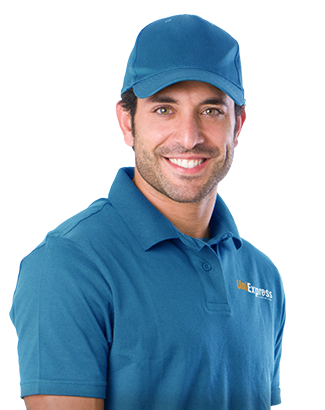
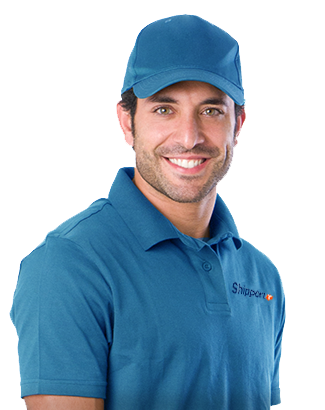
delete uniexpress.png

diff --git a/index.html b/index.html
@@ -70,7 +70,7 @@ data-callback="callBackDo">
   </div>
 
 
-<div id='priv_data'>Нажимая кнопку "Заказать звонок", я принимаю  <A HREF="https://uniexpress.ru/privatedata.html" TARGET="_blank">Правила обработки персональных данных</A>, и даю согласие на обработку моих персональных данных.</div> 
+<div id='priv_data'>Нажимая кнопку "Заказать звонок", я принимаю  <A HREF="https://shipperty.ru/privatedata.html" TARGET="_blank">Правила обработки персональных данных</A>, и даю согласие на обработку моих персональных данных.</div>
 
 </div>
 <div id='modales-back'></div>
@@ -90,7 +90,7 @@ data-callback="callBackDo">
      <div class='top-fixed-language'> <!-- <div id='language-changer'>En</div> --></div>
       <div class='top-fixed-separator'></div>
       <div class='top-fixed-services'><a href='services.html' rel='nofollow'><div id='services-tarif' title='Услуги курьерской доставки и тарифа на услуги курьерской доставки'>Услуги и тарифы</div></a></div>
-      <div class='top-fixed-services'><a href='https://p.uniexpress.ru' target="_blank" rel='nofollow'><div id='private-cabinet'  title='Вход для клиентов службы доставки Shipperty'>Личный кабинет</div></a></div>
+      <div class='top-fixed-services'><a href='https://p.shipperty.ru' target="_blank" rel='nofollow'><div id='private-cabinet'  title='Вход для клиентов службы доставки Shipperty'>Личный кабинет</div></a></div>
       <div class='top-fixed-callback'><div id='call-back-button' title='Обратный звонок от службы курьерской доставки Shipperty' onClick="callBackClick();">ЗАКАЗАТЬ ЗВОНОК</div></div>
       
       
@@ -103,12 +103,12 @@ data-callback="callBackDo">
        <a href='partners.html'><div id='partners-point' class='point-ham-menu' title='Услуги курьерской доставки и тарифа на услуги курьерской доставки'>Партнеры</div></a>
        <a href='contacts.html'><div id='loc-point' class='point-ham-menu' title='Услуги курьерской доставки и тарифа на услуги курьерской доставки'>Контакты</div></a>
        </div>
-      <a href='https://p.uniexpress.ru' target="_blank" rel='nofollow' title="Вход в личный кабинет Shipperty"><div class='top-fixed-pcicon-mobile'></div></a>
+      <a href='https://p.shipperty.ru' target="_blank" rel='nofollow' title="Вход в личный кабинет Shipperty"><div class='top-fixed-pcicon-mobile'></div></a>
        
       
       <div class='top-fixed-phones-tablet'>
         <div class='top-fixed-menu-phone2'><div class='top-fixed-menu-phone1-comment'>Для жителей Москвы</div><div class='top-fixed-menu-phone1-phone'>8 (495) 258-62-01</div></div>
-        <a href='https://p.uniexpress.ru' target="_blank" rel='nofollow'><div class='top-fixed-pcicon-tablet'></div></a>
+        <a href='https://p.shipperty.ru' target="_blank" rel='nofollow'><div class='top-fixed-pcicon-tablet'></div></a>
         <div class='top-fixed-menu-tablet' onClick='hMenuClickTablet();'></div>
         <div class='top-fixed-menu-tablet-content' id="top_menu_tablet">
         <a href='services.html'><div id='services-tarif' class='point-ham-menu' title='Услуги курьерской доставки и тарифа на услуги курьерской доставки'>Услуги и тарифы</div></a>

diff --git a/includes/call_courier.html b/includes/call_courier.html
@@ -142,7 +142,7 @@ if($f['_fld5821']=='t') {
 	   
 		   
 		   <div class='calc-form-td'><br> <br></div>
-		  <div id='priv_data2'>Нажимая кнопку "Вызвать курьера", я принимаю  <A HREF="https://uniexpress.ru/privatedata.html" TARGET="_blank">Правила обработки персональных данных</A>, и даю согласие на обработку моих персональных данных.</div>  
+		  <div id='priv_data2'>Нажимая кнопку "Вызвать курьера", я принимаю  <A HREF="https://shipperty.ru/privatedata.html" TARGET="_blank">Правила обработки персональных данных</A>, и даю согласие на обработку моих персональных данных.</div>
 		<div class='calc-form-result-button'>
 		<div class='call-courier-alert'>Внимание! Не все обязательные поля заполнены (отмечены красным)!</div>
 <div id='call_courier_button' class='usual-button-center' title='Расчет стоимости курьерской доставки' onClick="callCourierCheck();">ВЫЗВАТЬ КУРЬЕРА</div><br /><br /><br />

diff --git a/index-test.html b/index-test.html
@@ -68,7 +68,7 @@
   </div>
 
 
-<div id='priv_data'>Нажимая кнопку "Заказать звонок", я принимаю  <A HREF="https://uniexpress.ru/privatedata.html" TARGET="_blank">Правила обработки персональных данных</A>, и даю согласие на обработку моих персональных данных.</div> 
+<div id='priv_data'>Нажимая кнопку "Заказать звонок", я принимаю  <A HREF="https://shipperty.ru/privatedata.html" TARGET="_blank">Правила обработки персональных данных</A>, и даю согласие на обработку моих персональных данных.</div>
 
 </div>
 <div id='modales-back'></div>

diff --git a/fixedone/index.html b/fixedone/index.html
@@ -1,3 +1,3 @@
 <?php 
-header('Location: http://uniexpress.ru/fixedone.html');
+header('Location: http://shipperty.ru/fixedone.html');
 ?>

diff --git a/includes/top.php b/includes/top.php
@@ -13,7 +13,7 @@
       <div class='top-fixed-language'><!-- <div id='language-changer'>En</div> --></div>
       <div class='top-fixed-separator'></div>
       <div class='top-fixed-services'><a href='services.html' rel='nofollow'><div id='services-tarif' title='Услуги курьерской доставки и тарифа на услуги курьерской доставки'>Услуги и тарифы</div></a></div>
-      <div class='top-fixed-services'><a href='https://p.uniexpress.ru' target="_blank" rel='nofollow'><div id='private-cabinet' title='Вход для клиентов службы доставки Shipperty'>Личный кабинет</div></a></div>
+      <div class='top-fixed-services'><a href='https://p.shipperty.ru' target="_blank" rel='nofollow'><div id='private-cabinet' title='Вход для клиентов службы доставки Shipperty'>Личный кабинет</div></a></div>
       <div class='top-fixed-callback'><div id='call-back-button' title='Обратный звонок от службы курьерской доставки Shipperty' onClick="callBackClick();">ЗАКАЗАТЬ ЗВОНОК</div></div>
       
             <div class='top-fixed-menu-mobile' onClick='hMenuClickMobile();'></div>
@@ -24,12 +24,12 @@
        <a href='partners.html'><div id='partners-point' class='point-ham-menu' title='Услуги курьерской доставки и тарифа на услуги курьерской доставки'>Партнеры</div></a>
        <a href='contacts.html'><div id='loc-point' class='point-ham-menu' title='Услуги курьерской доставки и тарифа на услуги курьерской доставки'>Контакты</div></a>
        </div>
-      <a href='https://p.uniexpress.ru' target="_blank" rel='nofollow' title="Вход в личный кабинет Shipperty"><div class='top-fixed-pcicon-mobile'></div></a>
+      <a href='https://p.shipperty.ru' target="_blank" rel='nofollow' title="Вход в личный кабинет Shipperty"><div class='top-fixed-pcicon-mobile'></div></a>
        
       
       <div class='top-fixed-phones-tablet'>
         <div class='top-fixed-menu-phone2'><div class='top-fixed-menu-phone1-comment'>Для жителей Москвы</div><div class='top-fixed-menu-phone1-phone'>8 (495) 258-62-01</div></div>
-        <a href='http://p.uniexpress.ru' target="_blank" rel='nofollow'><div class='top-fixed-pcicon-tablet'></div></a>
+        <a href='http://p.shipperty.ru' target="_blank" rel='nofollow'><div class='top-fixed-pcicon-tablet'></div></a>
         <div class='top-fixed-menu-tablet' onClick='hMenuClickTablet();'></div>
         <div class='top-fixed-menu-tablet-content' id="top_menu_tablet">
         <a href='services.html'><div id='services-tarif' class='point-ham-menu' title='Услуги курьерской доставки и тарифа на услуги курьерской доставки'>Услуги и тарифы</div></a>

diff --git a/includes/services-delivery.php b/includes/services-delivery.php
@@ -152,7 +152,7 @@ for($i3=0; $i3<$rows3; $i3++)
 
 
 
-<p><a href="https://uniexpress.ru/tariff-spb.html">Ознакомиться с тарифами на доставку по Санкт-Петербургу</a> или рассчитать стоимость через <a href="https://uniexpress.ru/calc.html">калькулятор</a>.</p>
+<p><a href="https://shipperty.ru/tariff-spb.html">Ознакомиться с тарифами на доставку по Санкт-Петербургу</a> или рассчитать стоимость через <a href="https://shipperty.ru/calc.html">калькулятор</a>.</p>
 
 <p width="100%">
 <a href='contract.html' class='mainlink'>
@@ -170,7 +170,7 @@ for($i3=0; $i3<$rows3; $i3++)
     <li>Самовывоз. Работает несколько пунктов выдачи в Москве и Санкт-Петербурге.</li>
     <li>Отправка заказов по почте в ЛЮБОЙ город России.</li>
     </ul>
-    <p>Узнать все условия сотрудничества и ответы на дополнительные вопросы вы можете по телефону: +7 495 258-62-01 или по электронной почте: <a href="mailto:sales@uniexpress.ru"> sales@uniexpress.ru</a>.<br />Вы также можете связаться с нашим менеджером по работе с клиентами по персональному телефону: +7 (966) 12-14-966 (Александр). </p>
+    <p>Узнать все условия сотрудничества и ответы на дополнительные вопросы вы можете по телефону: +7 495 258-62-01 или по электронной почте: <a href="mailto:sales@shipperty.ru"> sales@shipperty.ru</a>.<br />Вы также можете связаться с нашим менеджером по работе с клиентами по персональному телефону: +7 (966) 12-14-966 (Александр). </p>
     <p>Будем рады видеть вас в числе наших постоянных клиентов и приложим все усилия, чтобы работать с нами вам было не только выгодно, но удобно и приятно. Надеемся на долговременное сотрудничество. </p>
     
     

diff --git a/includes/fixedone.php b/includes/fixedone.php
@@ -115,7 +115,7 @@
 	   
 		   
 		   <div class='calc-form-td'><br> <br></div>
-		  <div id='priv_data2'>Нажимая кнопку "Вызвать курьера", я принимаю  <A HREF="https://uniexpress.ru/privatedata.html" TARGET="_blank">Правила обработки персональных данных</A>, и даю согласие на обработку моих персональных данных.</div>  
+		  <div id='priv_data2'>Нажимая кнопку "Вызвать курьера", я принимаю  <A HREF="https://shipperty.ru/privatedata.html" TARGET="_blank">Правила обработки персональных данных</A>, и даю согласие на обработку моих персональных данных.</div>
 		<div class='calc-form-result-button'>
 		<div class='call-courier-alert'>Внимание! Не все обязательные поля заполнены (отмечены красным)!</div>
 <div id='call_courier_button' class='usual-button-center' title='Расчет стоимости курьерской доставки' onClick="callCourierCheck();">ВЫЗВАТЬ КУРЬЕРА</div><br /><br /><br />

diff --git a/includes/yunexpress.php b/includes/yunexpress.php
@@ -2,7 +2,7 @@
 
 <h2>Уважаемые покупатели товаров в китайских магазинах!</h2>
 
-<p>Наша компания называется Shipperty (ЮниЭкспресс) и не имеет никакого отношения к китайскому почтовому оператору YUN EXPRESS (ЮН ЭКСПРЕСС), а также к китайским почтовым сервисам Uni super express, Uni economy и т.д.
+<p>Наша компания называется Shipperty (Шипперти) и не имеет никакого отношения к китайскому почтовому оператору YUN EXPRESS (ЮН ЭКСПРЕСС), а также к китайским почтовым сервисам Uni super express, Uni economy и т.д.
 
 <h3>ПОЖАЛУЙСТА ОБРАТИТЕ ВНИМАНИЕ МЫ НЕ ДОСТАВЛЯЕМ НИКАКИЕ ЗАКАЗЫ ИЗ КИТАЯ И НИКАКИЕ ТОВАРЫ ИЗ КИТАЯ!</h3>
 

diff --git a/includes/contract.php b/includes/contract.php
@@ -1,6 +1,6 @@
 <script src="js/contract.js"></script>
 <div id='contract_content'>
-<div id='priv_data2'>Заполняя данные этой формы, я принимаю  <A HREF="https://uniexpress.ru/privatedata.html" TARGET="_blank">Правила обработки персональных данных</A>, и даю согласие на обработку моих персональных данных.</div> 
+<div id='priv_data2'>Заполняя данные этой формы, я принимаю  <A HREF="https://shipperty.ru/privatedata.html" TARGET="_blank">Правила обработки персональных данных</A>, и даю согласие на обработку моих персональных данных.</div>
 <div id='contract_step1'>
 <h2>Общие данные о заказчике</h2>
 <div class='calc-form-line'>

diff --git a/includes/callback_mod.php b/includes/callback_mod.php
@@ -14,6 +14,6 @@ data-callback="callBackDo">
 </button>
  </form>
 </div>
-<div id='priv_data'>Нажимая кнопку "Заказать звонок", я принимаю  <A HREF="https://uniexpress.ru/privatedata.html" TARGET="_blank">Правила обработки персональных данных</A>, и даю согласие на обработку моих персональных данных.</div> 
+<div id='priv_data'>Нажимая кнопку "Заказать звонок", я принимаю  <A HREF="https://shipperty.ru/privatedata.html" TARGET="_blank">Правила обработки персональных данных</A>, и даю согласие на обработку моих персональных данных.</div>
 </div>
 <div id='modales-back'></div>

diff --git a/functions/send_contract_request_simple.php b/functions/send_contract_request_simple.php
@@ -21,8 +21,8 @@ function sendSMS($chatId, $text)
 }
 
 $headers  = "Content-type: text/plain; charset=UTF-8 \n"; 
-$headers .= "From: notification@uniexpress.ru \n";
-$headers .= "Bcc: sales@uniexpress.ru\r\n";
+$headers .= "From: notification@shipperty.ru \n";
+$headers .= "Bcc: sales@shipperty.ru\r\n";
 
 
 //FULL
@@ -39,7 +39,7 @@ $chatIdR = "708408244"; //Рябов
 $chatIdD = "993384895"; //dementiuev
 
 
-$m =  mail("ryabov@uniexpress.ru", "Запрос на заключение договора (упрощенная форма)", $text_zakaz, $headers);
+$m =  mail("ryabov@shipperty.ru", "Запрос на заключение договора (упрощенная форма)", $text_zakaz, $headers);
 $sms = sendSMS($chatIdR, $text_zakaz);
 
 echo json_encode($m);
